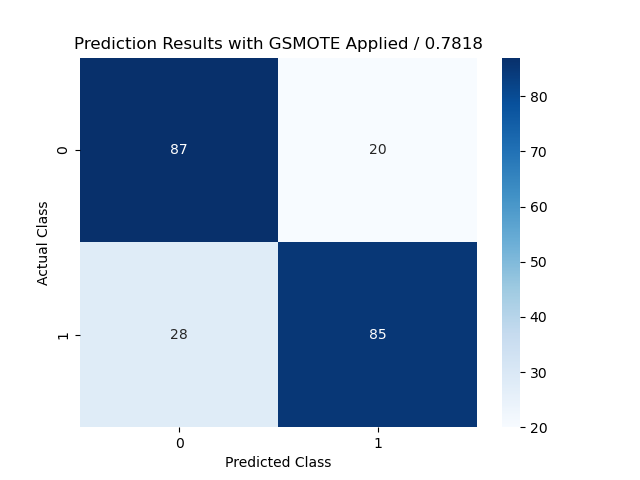
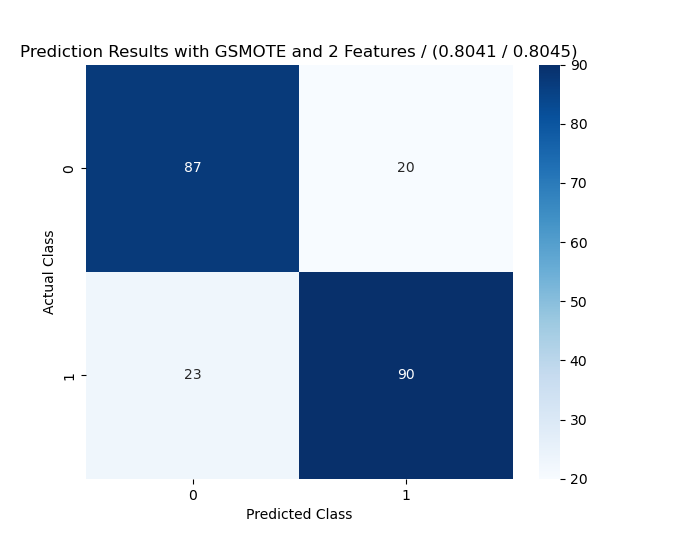
GridSeach completed

diff --git a/GSMOTE.py b/GSMOTE.py
@@ -69,24 +69,24 @@ X_train, X_valid, y_train, y_valid = train_test_split(X_resampled, y_resampled, 
 '''
 Call, train and evaluate the model
 # '''
-clf = DecisionTreeClassifier()
-clf.fit(X_train, y_train)
-prediction_train = clf.predict(X_train)
-prediction_valid = clf.predict(X_valid)
+# clf = DecisionTreeClassifier()
+# clf.fit(X_train, y_train)
+# prediction_train = clf.predict(X_train)
+# prediction_valid = clf.predict(X_valid)
 
-scr_tr = accuracy_score(y_train, prediction_train)
-print('The accuracy of the train set is %.4f.' %scr_tr)
-scr_val = accuracy_score(y_valid, prediction_valid)
-print('The accuracy of the validation set is %.4f.' %scr_val)
+# scr_tr = accuracy_score(y_train, prediction_train)
+# print('The accuracy of the train set is %.4f.' %scr_tr)
+# scr_val = accuracy_score(y_valid, prediction_valid)
+# print('The accuracy of the validation set is %.4f.' %scr_val)
 
-# # Plot the confusion matrix
-cm = confusion_matrix(y_valid, prediction_valid)
-sns.heatmap(cm, annot=True, fmt='d', cmap='Blues')
-plt.title('Prediction Results with GSMOTE and 2 Features / (%.4f / %.4f)' %(scr_tr, scr_val))
-plt.xlabel('Predicted Class')
-plt.ylabel('Actual Class')
-plt.savefig('Prediction Results with GSMOTE and 2 Features.png')
-plt.show()
+# # # Plot the confusion matrix
+# cm = confusion_matrix(y_valid, prediction_valid)
+# sns.heatmap(cm, annot=True, fmt='d', cmap='Blues')
+# plt.title('Prediction Results with GSMOTE and 2 Features / (%.4f / %.4f)' %(scr_tr, scr_val))
+# plt.xlabel('Predicted Class')
+# plt.ylabel('Actual Class')
+# plt.savefig('Prediction Results with GSMOTE and 2 Features.png')
+# plt.show()
 
 
 # save the model
@@ -95,6 +95,54 @@ plt.show()
 
 # load the model
 # load_clf = pickle.load(open('./baseline.pickle', 'rb'))
+
+
+
+'''
+Train and validate the model with 4 levels of depth
+'''
+# score_tr, score_val, cm = [], [], []
+
+# for i in range(1, 15):
+#     clf = DecisionTreeClassifier(max_depth=i, random_state=0)
+#     clf.fit(X_train, y_train)
+
+#     pred_tr = clf.predict(X_train)
+#     score_tr.append(accuracy_score(y_train, pred_tr))
+
+#     pred_valid = clf.predict(X_valid)
+#     score_val.append(accuracy_score(y_valid, pred_valid))
+
+    # Confusion Matrix
+    # cm.append(confusion_matrix(y_valid, clf.predict(X_valid)))
+
+# fig, axn = plt.subplots(nrows=1, ncols=3, figsize=(16,9))
+# for i, ax in enumerate(axn.flat):
+#     sns.heatmap(cm[i-1], ax=ax, annot=True, fmt='d', cmap='Blues', cbar=i==2)
+#     ax.set_title('%d level / %.4f' %(i+1, score_val[i]))
+# fig.suptitle('Prediction Results')
+# plt.savefig('Confusion Matrix.jpg')
+# plt.show()
+
+# print(score_val)
+# Lv 1 = 0.7765, Lv 2 = 0.7430 Lv3 = 0.7709
+
+
+# Plot the accuracy
+ax_x = [i for i in range(1, len(score_tr)+1)]
+fig = plt.figure(figsize=(12,9))
+plt.plot(ax_x, score_tr, color="#6a79a7")
+plt.plot(ax_x, score_val, color='#d767ad')
+
+fig.legend(['Training', 'Validation'])
+plt.title('Accuracy on Training and Validation Set')
+plt.xticks(np.array(ax_x))
+plt.xlabel('Depth')
+plt.ylabel('Accuracy')
+
+plt.savefig('Overfitting Pattern with GSMOTE-MI models.jpg')
+plt.show()
+
 
 
 '''
@@ -123,54 +171,6 @@ plt.title('Model Performance with K-fold Cross Validation (two features)' %cv)
 
 plt.savefig('CV Performance_two features.png')
 plt.show()
-
-
-'''
-Train and validate the model with 4 levels of depth
-'''
-score_tr, score_val, cm = [], [], []
-
-for i in range(1, 4):
-    clf = DecisionTreeClassifier(max_depth=i, random_state=0)
-    clf.fit(X_train, y_train)
-
-    pred_tr = clf.predict(X_train)
-    score_tr.append(accuracy_score(y_train, pred_tr))
-
-    pred_valid = clf.predict(X_valid)
-    score_val.append(accuracy_score(y_valid, pred_valid))
-
-    # Confusion Matrix
-    cm.append(confusion_matrix(y_valid, clf.predict(X_valid)))
-
-fig, axn = plt.subplots(nrows=1, ncols=3, figsize=(16,9))
-for i, ax in enumerate(axn.flat):
-    sns.heatmap(cm[i-1], ax=ax, annot=True, fmt='d', cmap='Blues', cbar=i==2)
-    ax.set_title('%d level / %.4f' %(i+1, score_val[i]))
-fig.suptitle('Prediction Results')
-plt.savefig('Confusion Matrix.jpg')
-plt.show()
-
-print(score_val)
-# Lv 1 = 0.7765, Lv 2 = 0.7430 Lv3 = 0.7709
-
-
-# Plot the accuracy
-ax_x = [i for i in range(1,4)]
-fig = plt.figure(figsize=(12,9))
-plt.plot(ax_x, score_tr, color="#6a79a7")
-plt.plot(ax_x, score_val, color='#d767ad')
-
-fig.legend(['Training', 'Validation'])
-plt.title('Accuracy on Training and Validation Set')
-plt.xticks(np.array(range(1,4)))
-plt.xlabel('Depth')
-plt.ylabel('Accuracy')
-
-plt.savefig('overfitting 2.jpg')
-plt.show()
-
-
 
 
 '''

diff --git a/GridSearch.py b/GridSearch.py
@@ -1,0 +1,93 @@
+# Import libraries
+import pickle
+import numpy as np
+import pandas as pd
+from sklearn.tree import DecisionTreeClassifier
+from sklearn.model_selection import cross_validate, train_test_split, ParameterGrid
+from sklearn.metrics import accuracy_score, confusion_matrix
+from sklearn import preprocessing
+import matplotlib.pyplot as plt
+import seaborn as sns
+from gsmote import GeometricSMOTE
+
+# Read data
+df = pd.read_csv('./Data/titanic_train.csv')
+
+'''
+Data Preprocessing
+'''
+# Drop irrelevant attributes
+df = df.drop(['Unnamed: 0', 'Ticket', 'Name', 'PassengerId'], axis=1)
+
+# Count total missing values for each attribute
+dummy = df.isnull().sum()
+
+# Drop unused attributes
+df = df.drop(['Cabin'], axis=1)
+
+# Check any invalid format
+def check_format(a, type):
+    if type == 'num':
+        dummy = df.applymap(lambda x: isinstance(x, (int, float)))[a]
+    elif type == 'str':
+        dummy = df.applymap(lambda x: isinstance(x, (str)))[a]
+    dummy = dummy.to_frame()
+    dummy = dummy[a].value_counts()
+    print(dummy)
+    
+num_att = ['Age', 'Parch', 'Pclass', 'SibSp', 'Family_Size', 'Fare']
+str_att = ['Embarked', 'Sex', 'Title']
+
+for i in num_att:
+    check_format(i, 'num')
+for i in str_att:
+    check_format(i, 'str')
+
+# Encode categorical data
+le = preprocessing.LabelEncoder()
+df['Gender'] = le.fit_transform(df['Sex'])
+df['Port'] = le.fit_transform(df['Embarked'])
+df['Title_factor'] = le.fit_transform(df['Title'])
+
+# Data cleansing 1 - Drop all null data
+df.dropna(inplace=True)
+
+# Data cleansing 2 - Replace null data with mode/mean/median
+
+# Extract attributes and target
+X = df.drop(['Survived', 'Sex', 'Embarked', 'Title'], axis=1)
+y = df['Survived']
+
+# Oversampling
+Gsmote = GeometricSMOTE()
+X_resampled, y_resampled = Gsmote.fit_resample(X, y)
+X_resampled = X_resampled[['Title_factor', 'Gender']]
+
+# Split the dataset into training and testing set
+X_train, X_valid, y_train, y_valid = train_test_split(X_resampled, y_resampled, test_size=0.20, random_state=1)
+
+
+
+'''
+Grid Search
+'''
+best_acc = 0
+
+clf = DecisionTreeClassifier(random_state=0)
+grid = {'max_depth': [i for i in range(1,21)], 'min_samples_leaf': [i for i in range(50,801,50)], 'min_samples_split': [i for i in range(50,801,50)]}
+for g in ParameterGrid(grid):
+    clf.set_params(**g)
+    clf.fit(X_train, y_train)
+    scr_tr = accuracy_score(y_train, clf.predict(X_train))
+    scr_val = accuracy_score(y_valid, clf.predict(X_valid))
+    if scr_val >= best_acc:
+        best_acc = scr_val
+        best_grid = g
+        best_scr_tr = scr_tr
+
+print('Best Grid: ', best_grid)
+print('validation accuracy: %.4f         training accuracy: %.4f' %(best_acc, best_scr_tr))
+        
+
+
+pass
